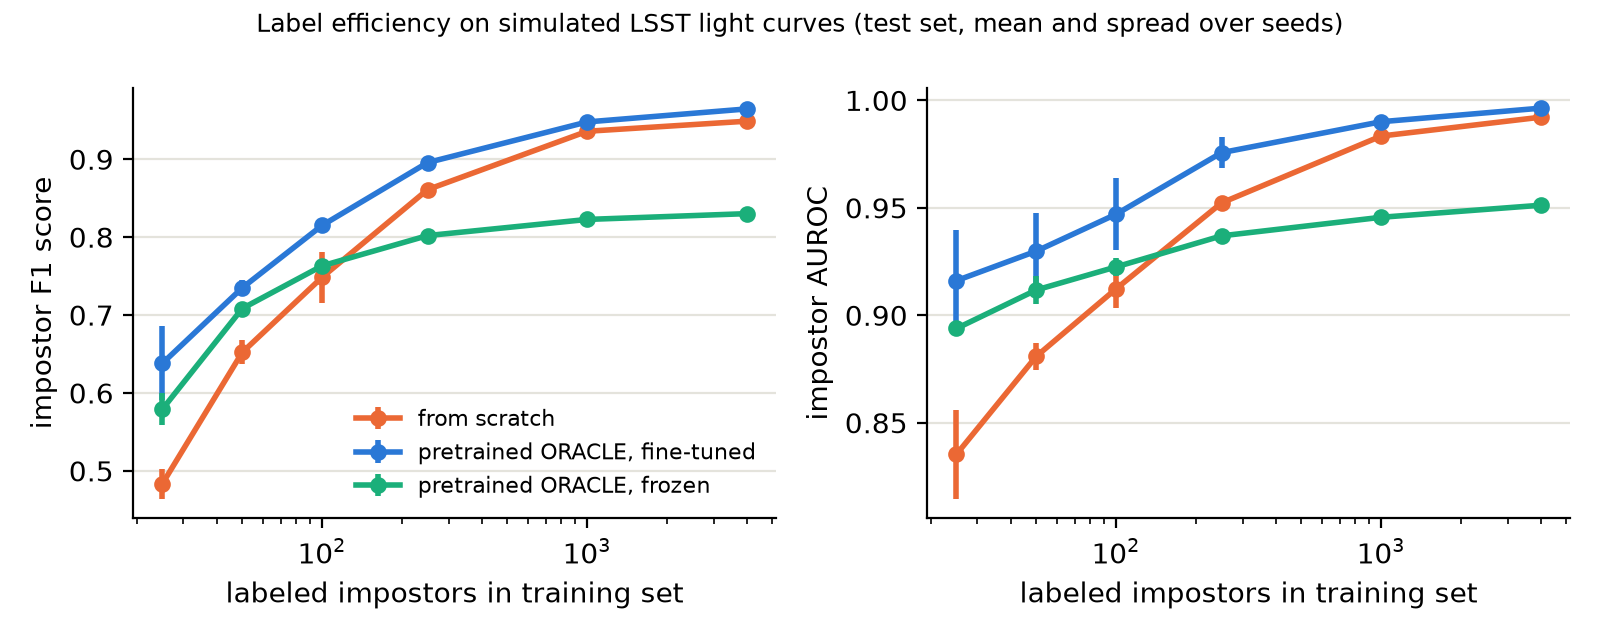
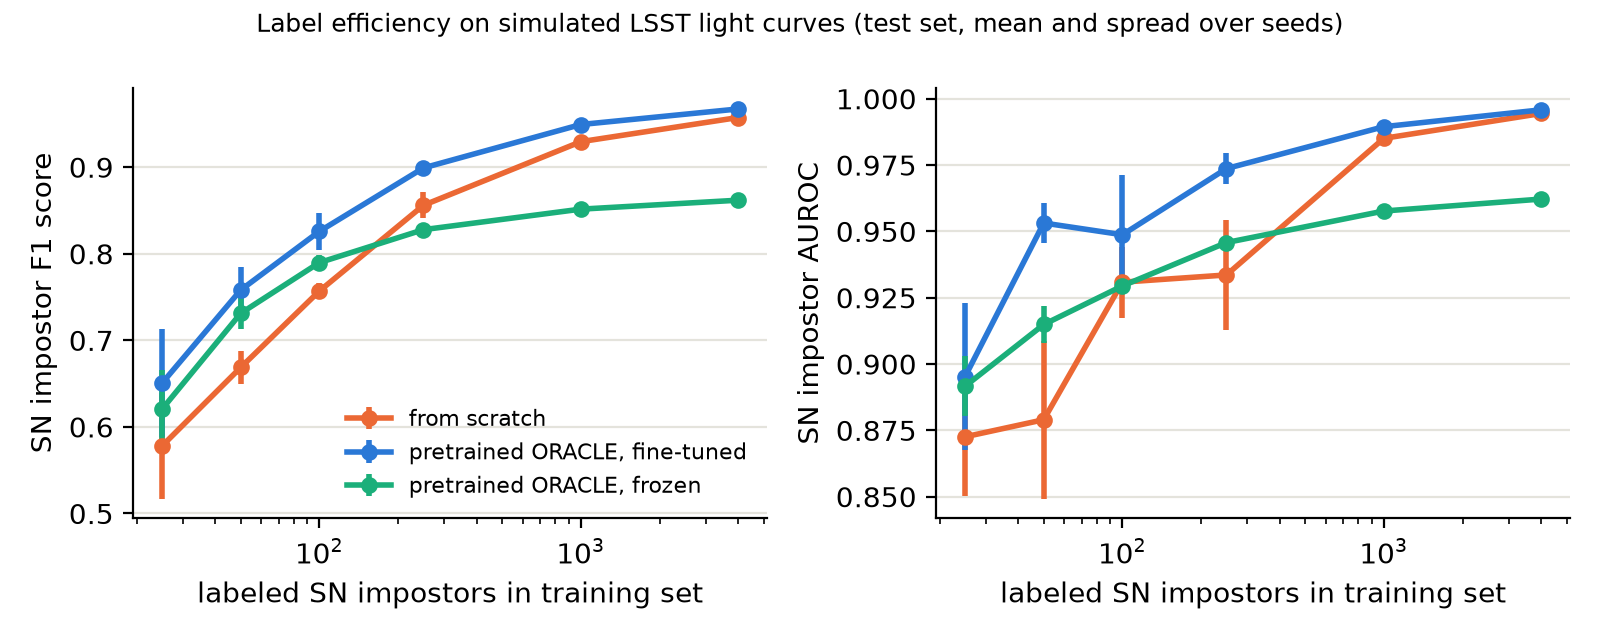
Update first result with the rerun (realistic depths, new S Dor model)

diff --git a/README.md b/README.md
@@ -21,7 +21,7 @@ Each folder has its own README with instructions.
 
 ## First result: transfer learning needs fewer labeled eruptions
 
-Fine-tuning the pretrained ORACLE classifier ([Shah et al. 2025](https://doi.org/10.3847/1538-4357/ae1130)) on simulated LSST light curves finds more eruptions than the same network trained from scratch, most clearly when labeled examples are scarce. With 25 labeled SN impostors, it recovers 47% of SN impostors in a held-out test set, compared with 32% from scratch, and it reaches a given recall with about half as many labeled examples. Before fine-tuning, ORACLE, which has no class for recurring eruptions, labels most simulated eruptions as AGN or long-duration transients.
+Fine-tuning the pretrained ORACLE classifier ([Shah et al. 2025](https://doi.org/10.3847/1538-4357/ae1130)) on simulated LSST light curves finds more eruptions than the same network trained from scratch, most clearly when labeled examples are scarce: it reaches the same recall with about half as many labeled SN impostors. With 50 labeled SN impostors, it recovers 61% of SN impostors in a held-out test set, compared with 50% from scratch (with 25: 49% versus 41%). Before fine-tuning, ORACLE, which has no class for recurring eruptions, spreads the simulated eruptions across long-duration transients, AGN, and periodic variables.
 
 ![Label efficiency](ml/figures/label_efficiency.png)
 
